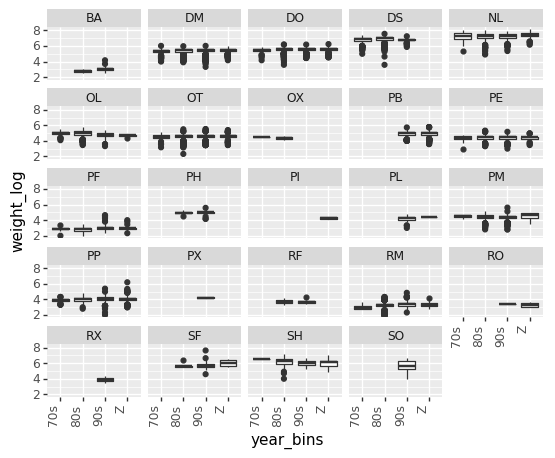
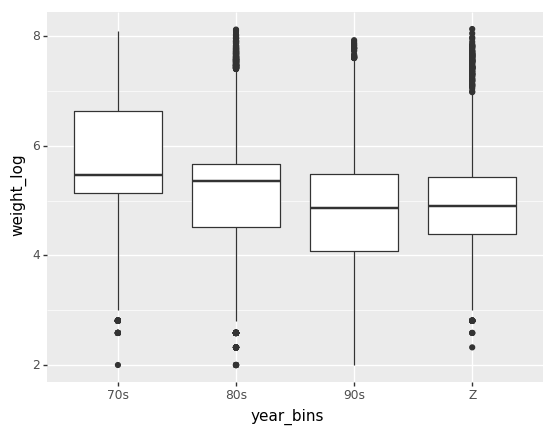
Deployed 64f39bf with MkDocs version: 0.17.3

diff --git a/modules/plotting_with_ggplot/index.html b/modules/plotting_with_ggplot/index.html
@@ -265,23 +265,23 @@
 <pre class="output">
 <div class="output_label">output</div>
 <code class="text">
-Requirement already satisfied: pandas in /Users/asha0035/.local/share/virtualenvs/python-workshop-base-LFzz33nP/lib/python3.6/site-packages (0.23.0)
-Requirement already satisfied: plotnine in /Users/asha0035/.local/share/virtualenvs/python-workshop-base-LFzz33nP/lib/python3.6/site-packages (0.3.0)
-Requirement already satisfied: python-dateutil>=2.5.0 in /Users/asha0035/.local/share/virtualenvs/python-workshop-base-LFzz33nP/lib/python3.6/site-packages (from pandas) (2.7.3)
-Requirement already satisfied: pytz>=2011k in /Users/asha0035/.local/share/virtualenvs/python-workshop-base-LFzz33nP/lib/python3.6/site-packages (from pandas) (2018.4)
-Requirement already satisfied: numpy>=1.9.0 in /Users/asha0035/.local/share/virtualenvs/python-workshop-base-LFzz33nP/lib/python3.6/site-packages (from pandas) (1.14.3)
-Requirement already satisfied: matplotlib>=2.1.0 in /Users/asha0035/.local/share/virtualenvs/python-workshop-base-LFzz33nP/lib/python3.6/site-packages (from plotnine) (2.2.2)
-Requirement already satisfied: patsy>=0.4.1 in /Users/asha0035/.local/share/virtualenvs/python-workshop-base-LFzz33nP/lib/python3.6/site-packages (from plotnine) (0.5.0)
-Requirement already satisfied: six in /Users/asha0035/.local/share/virtualenvs/python-workshop-base-LFzz33nP/lib/python3.6/site-packages (from plotnine) (1.11.0)
-Requirement already satisfied: mizani>=0.4.1 in /Users/asha0035/.local/share/virtualenvs/python-workshop-base-LFzz33nP/lib/python3.6/site-packages (from plotnine) (0.4.6)
-Requirement already satisfied: statsmodels>=0.8.0 in /Users/asha0035/.local/share/virtualenvs/python-workshop-base-LFzz33nP/lib/python3.6/site-packages (from plotnine) (0.9.0)
-Requirement already satisfied: scipy>=1.0.0 in /Users/asha0035/.local/share/virtualenvs/python-workshop-base-LFzz33nP/lib/python3.6/site-packages (from plotnine) (1.1.0)
-Requirement already satisfied: pyparsing!=2.0.4,!=2.1.2,!=2.1.6,>=2.0.1 in /Users/asha0035/.local/share/virtualenvs/python-workshop-base-LFzz33nP/lib/python3.6/site-packages (from matplotlib>=2.1.0->plotnine) (2.2.0)
-Requirement already satisfied: kiwisolver>=1.0.1 in /Users/asha0035/.local/share/virtualenvs/python-workshop-base-LFzz33nP/lib/python3.6/site-packages (from matplotlib>=2.1.0->plotnine) (1.0.1)
-Requirement already satisfied: cycler>=0.10 in /Users/asha0035/.local/share/virtualenvs/python-workshop-base-LFzz33nP/lib/python3.6/site-packages (from matplotlib>=2.1.0->plotnine) (0.10.0)
-Requirement already satisfied: palettable in /Users/asha0035/.local/share/virtualenvs/python-workshop-base-LFzz33nP/lib/python3.6/site-packages (from mizani>=0.4.1->plotnine) (3.1.1)
-Requirement already satisfied: setuptools in /Users/asha0035/.local/share/virtualenvs/python-workshop-base-LFzz33nP/lib/python3.6/site-packages (from kiwisolver>=1.0.1->matplotlib>=2.1.0->plotnine) (39.2.0)
-[33mYou are using pip version 10.0.1, however version 18.1 is available.
+Requirement already satisfied: pandas in /Users/perry/.virtualenvs/jupyter/lib/python3.6/site-packages
+Requirement already satisfied: plotnine in /Users/perry/.virtualenvs/jupyter/lib/python3.6/site-packages
+Requirement already satisfied: python-dateutil>=2.5.0 in /Users/perry/.virtualenvs/jupyter/lib/python3.6/site-packages (from pandas)
+Requirement already satisfied: numpy>=1.9.0 in /Users/perry/.virtualenvs/jupyter/lib/python3.6/site-packages (from pandas)
+Requirement already satisfied: pytz>=2011k in /Users/perry/.virtualenvs/jupyter/lib/python3.6/site-packages (from pandas)
+Requirement already satisfied: scipy>=1.0.0 in /Users/perry/.virtualenvs/jupyter/lib/python3.6/site-packages (from plotnine)
+Requirement already satisfied: mizani>=0.4.1 in /Users/perry/.virtualenvs/jupyter/lib/python3.6/site-packages (from plotnine)
+Requirement already satisfied: matplotlib>=2.1.0 in /Users/perry/.virtualenvs/jupyter/lib/python3.6/site-packages (from plotnine)
+Requirement already satisfied: statsmodels>=0.8.0 in /Users/perry/.virtualenvs/jupyter/lib/python3.6/site-packages (from plotnine)
+Requirement already satisfied: patsy>=0.4.1 in /Users/perry/.virtualenvs/jupyter/lib/python3.6/site-packages (from plotnine)
+Requirement already satisfied: six in /Users/perry/.virtualenvs/jupyter/lib/python3.6/site-packages (from plotnine)
+Requirement already satisfied: palettable in /Users/perry/.virtualenvs/jupyter/lib/python3.6/site-packages (from mizani>=0.4.1->plotnine)
+Requirement already satisfied: pyparsing!=2.0.4,!=2.1.2,!=2.1.6,>=2.0.1 in /Users/perry/.virtualenvs/jupyter/lib/python3.6/site-packages (from matplotlib>=2.1.0->plotnine)
+Requirement already satisfied: cycler>=0.10 in /Users/perry/.virtualenvs/jupyter/lib/python3.6/site-packages (from matplotlib>=2.1.0->plotnine)
+Requirement already satisfied: kiwisolver>=1.0.1 in /Users/perry/.virtualenvs/jupyter/lib/python3.6/site-packages (from matplotlib>=2.1.0->plotnine)
+Requirement already satisfied: setuptools in /Users/perry/.virtualenvs/jupyter/lib/python3.6/site-packages (from kiwisolver>=1.0.1->matplotlib>=2.1.0->plotnine)
+[33mYou are using pip version 9.0.1, however version 18.1 is available.
 You should consider upgrading via the 'pip install --upgrade pip' command.[0m
 
 </code>
@@ -316,7 +316,7 @@ survs_df = pd.read_csv('surveys.csv').dropna()
 <pre class="output">
 <div style="text-align: right; margin: -1em; padding: 0;"><span style="font-size: 0.5em; color: grey">output</span></div>
 <code class="text">
-<ggplot: (280563425)>
+<ggplot: (273805937)>
 </code>
 </pre>
 
@@ -329,7 +329,7 @@ survs_df = pd.read_csv('surveys.csv').dropna()
 <pre class="output">
 <div style="text-align: right; margin: -1em; padding: 0;"><span style="font-size: 0.5em; color: grey">output</span></div>
 <code class="text">
-<ggplot: (-9223372036574210097)>
+<ggplot: (-9223372036573487293)>
 </code>
 </pre>
 
@@ -342,7 +342,7 @@ survs_df = pd.read_csv('surveys.csv').dropna()
 <pre class="output">
 <div style="text-align: right; margin: -1em; padding: 0;"><span style="font-size: 0.5em; color: grey">output</span></div>
 <code class="text">
-<ggplot: (281736768)>
+<ggplot: (-9223372036573159564)>
 </code>
 </pre>
 
@@ -355,7 +355,7 @@ survs_df = pd.read_csv('surveys.csv').dropna()
 <pre class="output">
 <div style="text-align: right; margin: -1em; padding: 0;"><span style="font-size: 0.5em; color: grey">output</span></div>
 <code class="text">
-<ggplot: (282088147)>
+<ggplot: (-9223372036573171063)>
 </code>
 </pre>
 
@@ -368,15 +368,21 @@ survs_df = pd.read_csv('surveys.csv').dropna()
 <pre class="output">
 <div style="text-align: right; margin: -1em; padding: 0;"><span style="font-size: 0.5em; color: grey">output</span></div>
 <code class="text">
-<ggplot: (282080064)>
+<ggplot: (-9223372036574059043)>
 </code>
 </pre>
 
 <h2 id="challenges">Challenges</h2>
-<p>Is there a better visualisation for comparing weight across years? The plot should have categorical data on x axis and continuous on y axis.</p>
-<p>Plot a boxplot of <code>hindfoot_length</code> across different species (<code>species_id</code> column).</p>
+<ol>
+<li>
+<p>Produce a plot comparing the number of observations for each species at each site. The plot should have <code>site_id</code> on the x axis, ideally as categorical data. (HINT: You can convert a column in a DataFrame <code>df</code> to the 'category' type using: <code>df['some_col_name'] = df['some_col_name'].astype('category')</code>)</p>
+</li>
+<li>
+<p>Create a <strong>boxplot</strong> of <code>hindfoot_length</code> across different species (<code>species_id</code> column) (HINT: There's a list of <em>geoms</em> available for <code>plotnine</code> in the <a href="https://plotnine.readthedocs.io/en/stable/api.html#geoms">docs</a> - instead of <code>geom_bar</code>, which one should you use ?)</p>
+</li>
+</ol>
 <!-- 
-## Solution
+## Solutions
  -->
 
 <!--
@@ -394,7 +400,29 @@ survs_df = pd.read_csv('surveys.csv').dropna()
 <pre class="output">
 <div style="text-align: right; margin: -1em; padding: 0;"><span style="font-size: 0.5em; color: grey">output</span></div>
 <code class="text">
-<ggplot: (281216923)>
+<ggplot: (-9223372036580969854)>
+</code>
+</pre>
+
+
+ -->
+
+<!--
+
+wzxhzdk:9
+
+
+
+![png](plotting_with_ggplot_files/plotting_with_ggplot_22_0.png)
+
+
+
+
+
+<pre class="output">
+<div style="text-align: right; margin: -1em; padding: 0;"><span style="font-size: 0.5em; color: grey">output</span></div>
+<code class="text">
+<ggplot: (-9223372036572631029)>
 </code>
 </pre>
 
@@ -406,11 +434,11 @@ survs_df = pd.read_csv('surveys.csv').dropna()
     geom_boxplot()
 </code></pre>
 
-<p><img alt="png" src="../plotting_with_ggplot_files/plotting_with_ggplot_23_0.png" /></p>
+<p><img alt="png" src="../plotting_with_ggplot_files/plotting_with_ggplot_24_0.png" /></p>
 <pre class="output">
 <div style="text-align: right; margin: -1em; padding: 0;"><span style="font-size: 0.5em; color: grey">output</span></div>
 <code class="text">
-<ggplot: (-9223372036573558882)>
+<ggplot: (282352946)>
 </code>
 </pre>
 
@@ -422,11 +450,11 @@ ggplot(survs_df, aes('year_fact', 'weight')) + \
     geom_boxplot()
 </code></pre>
 
-<p><img alt="png" src="../plotting_with_ggplot_files/plotting_with_ggplot_25_0.png" /></p>
+<p><img alt="png" src="../plotting_with_ggplot_files/plotting_with_ggplot_26_0.png" /></p>
 <pre class="output">
 <div style="text-align: right; margin: -1em; padding: 0;"><span style="font-size: 0.5em; color: grey">output</span></div>
 <code class="text">
-<ggplot: (282425110)>
+<ggplot: (282774013)>
 </code>
 </pre>
 
@@ -436,11 +464,11 @@ ggplot(survs_df, aes('year_fact', 'weight')) + \
     theme(axis_text_x = element_text(angle=90, hjust=1))
 </code></pre>
 
-<p><img alt="png" src="../plotting_with_ggplot_files/plotting_with_ggplot_27_0.png" /></p>
+<p><img alt="png" src="../plotting_with_ggplot_files/plotting_with_ggplot_28_0.png" /></p>
 <pre class="output">
 <div style="text-align: right; margin: -1em; padding: 0;"><span style="font-size: 0.5em; color: grey">output</span></div>
 <code class="text">
-<ggplot: (-9223372036573217336)>
+<ggplot: (273755631)>
 </code>
 </pre>
 
@@ -453,11 +481,11 @@ ggplot(survs_df, aes('year_fact', 'weight')) + \
     flip_xlabels
 </code></pre>
 
-<p><img alt="png" src="../plotting_with_ggplot_files/plotting_with_ggplot_30_0.png" /></p>
+<p><img alt="png" src="../plotting_with_ggplot_files/plotting_with_ggplot_31_0.png" /></p>
 <pre class="output">
 <div style="text-align: right; margin: -1em; padding: 0;"><span style="font-size: 0.5em; color: grey">output</span></div>
 <code class="text">
-<ggplot: (-9223372036582088455)>
+<ggplot: (-9223372036572621694)>
 </code>
 </pre>
 
@@ -479,28 +507,34 @@ ggsave(filename=&quot;plot1.png&quot;,
 <pre class="output">
 <div class="output_label">output</div>
 <code class="text">
-/Users/asha0035/.local/share/virtualenvs/python-workshop-base-LFzz33nP/lib/python3.6/site-packages/plotnine/ggplot.py:688: UserWarning: Saving 25 x 25 in image.
+/Users/perry/.virtualenvs/jupyter/lib/python3.6/site-packages/plotnine/ggplot.py:688: UserWarning: Saving 25 x 25 in image.
   from_inches(height, units), units))
-/Users/asha0035/.local/share/virtualenvs/python-workshop-base-LFzz33nP/lib/python3.6/site-packages/plotnine/ggplot.py:689: UserWarning: Filename: plot1.png
+/Users/perry/.virtualenvs/jupyter/lib/python3.6/site-packages/plotnine/ggplot.py:689: UserWarning: Filename: plot1.png
   warn('Filename: {}'.format(filename))
 
 </code>
 </pre>
 
 <h2 id="challenges_1">Challenges</h2>
+<ol>
+<li>
 <p>Can you log2 transform <code>weight</code> and plot a "normalised" boxplot ? Hint: use <code>np.log2()</code> function and name new column <code>weight_log</code>.</p>
+</li>
+<li>
 <p>Does a log2 transform make this data visualisation better ?</p>
+</li>
+</ol>
 <!-- 
 ## Solution
  -->
 
 <!--
 
-wzxhzdk:15
+wzxhzdk:16
 
 
 
-![png](plotting_with_ggplot_files/plotting_with_ggplot_35_0.png)
+![png](plotting_with_ggplot_files/plotting_with_ggplot_36_0.png)
 
 
 
@@ -509,7 +543,7 @@ ggsave(filename=&quot;plot1.png&quot;,
 <pre class="output">
 <div style="text-align: right; margin: -1em; padding: 0;"><span style="font-size: 0.5em; color: grey">output</span></div>
 <code class="text">
-<ggplot: (280712975)>
+<ggplot: (-9223372036582593059)>
 </code>
 </pre>
 
@@ -527,11 +561,11 @@ make one plot for a time series for each species.</p>
     theme(axis_text_x = element_text(size=6))
 </code></pre>
 
-<p><img alt="png" src="../plotting_with_ggplot_files/plotting_with_ggplot_37_0.png" /></p>
+<p><img alt="png" src="../plotting_with_ggplot_files/plotting_with_ggplot_38_0.png" /></p>
 <pre class="output">
 <div style="text-align: right; margin: -1em; padding: 0;"><span style="font-size: 0.5em; color: grey">output</span></div>
 <code class="text">
-<ggplot: (281877063)>
+<ggplot: (-9223372036572419128)>
 </code>
 </pre>
 
@@ -543,11 +577,11 @@ make one plot for a time series for each species.</p>
     theme(axis_text_x = element_text(size=8))
 </code></pre>
 
-<p><img alt="png" src="../plotting_with_ggplot_files/plotting_with_ggplot_38_0.png" /></p>
+<p><img alt="png" src="../plotting_with_ggplot_files/plotting_with_ggplot_39_0.png" /></p>
 <pre class="output">
 <div style="text-align: right; margin: -1em; padding: 0;"><span style="font-size: 0.5em; color: grey">output</span></div>
 <code class="text">
-<ggplot: (281482132)>
+<ggplot: (280901373)>
 </code>
 </pre>
 
@@ -569,11 +603,11 @@ make one plot for a time series for each species.</p>
     flip_xlabels
 </code></pre>
 
-<p><img alt="png" src="../plotting_with_ggplot_files/plotting_with_ggplot_41_0.png" /></p>
+<p><img alt="png" src="../plotting_with_ggplot_files/plotting_with_ggplot_42_0.png" /></p>
 <pre class="output">
 <div style="text-align: right; margin: -1em; padding: 0;"><span style="font-size: 0.5em; color: grey">output</span></div>
 <code class="text">
-<ggplot: (283768170)>
+<ggplot: (281550512)>
 </code>
 </pre>
 
@@ -584,11 +618,11 @@ make one plot for a time series for each species.</p>
     theme(axis_text_x = element_text(size=4, angle=90, hjust=1))
 </code></pre>
 
-<p><img alt="png" src="../plotting_with_ggplot_files/plotting_with_ggplot_42_0.png" /></p>
+<p><img alt="png" src="../plotting_with_ggplot_files/plotting_with_ggplot_43_0.png" /></p>
 <pre class="output">
 <div style="text-align: right; margin: -1em; padding: 0;"><span style="font-size: 0.5em; color: grey">output</span></div>
 <code class="text">
-<ggplot: (-9223372036573359833)>
+<ggplot: (-9223372036581223438)>
 </code>
 </pre>
 
@@ -609,11 +643,11 @@ survs_df['year_bins'] = np.select(bins, labels)
 plt2
 </code></pre>
 
-<p><img alt="png" src="../plotting_with_ggplot_files/plotting_with_ggplot_45_0.png" /></p>
+<p><img alt="png" src="../plotting_with_ggplot_files/plotting_with_ggplot_46_0.png" /></p>
 <pre class="output">
 <div style="text-align: right; margin: -1em; padding: 0;"><span style="font-size: 0.5em; color: grey">output</span></div>
 <code class="text">
-<ggplot: (-9223372036571930364)>
+<ggplot: (-9223372036574046646)>
 </code>
 </pre>
 
@@ -624,11 +658,11 @@ plt2
 plt2
 </code></pre>
 
-<p><img alt="png" src="../plotting_with_ggplot_files/plotting_with_ggplot_46_0.png" /></p>
+<p><img alt="png" src="../plotting_with_ggplot_files/plotting_with_ggplot_47_0.png" /></p>
 <pre class="output">
 <div style="text-align: right; margin: -1em; padding: 0;"><span style="font-size: 0.5em; color: grey">output</span></div>
 <code class="text">
-<ggplot: (282506097)>
+<ggplot: (282089925)>
 </code>
 </pre>
 
@@ -647,11 +681,11 @@ ggplot(survs_df, aes(&quot;year_fact&quot;, &quot;weight_log&quot;)) + \
     theme(axis_text_x = element_text(angle=90, hjust=1))
 </code></pre>
 
-<p><img alt="png" src="../plotting_with_ggplot_files/plotting_with_ggplot_48_0.png" /></p>
+<p><img alt="png" src="../plotting_with_ggplot_files/plotting_with_ggplot_49_0.png" /></p>
 <pre class="output">
 <div style="text-align: right; margin: -1em; padding: 0;"><span style="font-size: 0.5em; color: grey">output</span></div>
 <code class="text">
-<ggplot: (-9223372036572222492)>
+<ggplot: (-9223372036573245205)>
 </code>
 </pre></div>
         

diff --git a/index.html b/index.html
@@ -256,5 +256,5 @@ and <a href="https://swcarpentry.github.io/python-novice-inflammation/">Software
 
 <!--
 MkDocs version : 0.17.3
-Build Date UTC : 2018-11-12 23:08:10
+Build Date UTC : 2018-11-13 03:18:42
 -->
